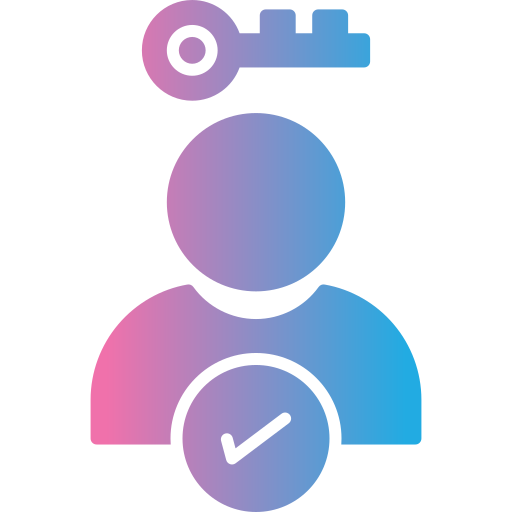
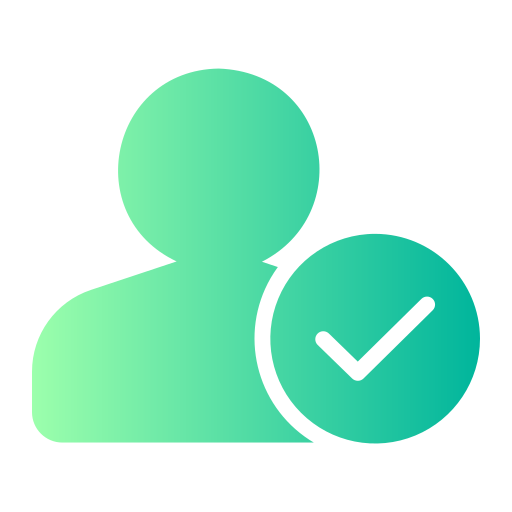
menambahkan sweetAlert pada logout

diff --git a/src/silaris_client/sweetAlert/SweetAlert_Logout.java b/src/silaris_client/sweetAlert/SweetAlert_Logout.java
@@ -1,0 +1,147 @@
+package silaris_client.sweetAlert;
+
+import javax.swing.*;
+import java.awt.*;
+
+public class SweetAlert_Logout extends JDialog {
+
+    private float opacityLevel = 0f;
+    private float iconScale = 0f;
+    private float iconAlpha = 0f;
+
+    public SweetAlert_Logout(Frame parent, Runnable onConfirm) {
+
+        super(parent, false);
+        setUndecorated(true);
+        setSize(360, 230);
+        setLocationRelativeTo(parent);
+        setBackground(new Color(0,0,0,0));
+
+        JPanel panel = new JPanel() {
+            @Override
+            protected void paintComponent(Graphics g) {
+                Graphics2D g2 = (Graphics2D) g;
+                g2.setComposite(
+                        AlphaComposite.getInstance(
+                                AlphaComposite.SRC_OVER, opacityLevel));
+                g2.setColor(Color.WHITE);
+                g2.fillRoundRect(0, 0, getWidth(), getHeight(), 25, 25);
+            }
+        };
+
+        panel.setOpaque(false);
+        panel.setLayout(new BorderLayout());
+        panel.setBorder(BorderFactory.createEmptyBorder(20, 20, 20, 20));
+
+        // ================= ICON =================
+        ImageIcon iconImg = new ImageIcon(
+                getClass().getResource("/silaris_client_assets/Logout.png"));
+        Image image = iconImg.getImage();
+
+        JPanel iconPanel = new JPanel() {
+            @Override
+            protected void paintComponent(Graphics g) {
+                super.paintComponent(g);
+                Graphics2D g2 = (Graphics2D) g;
+
+                g2.setComposite(
+                        AlphaComposite.getInstance(
+                                AlphaComposite.SRC_OVER, iconAlpha));
+
+                int size = (int) (70 * iconScale);
+                int x = (getWidth() - size) / 2;
+                int y = (getHeight() - size) / 2;
+
+                g2.drawImage(image, x, y, size, size, this);
+            }
+        };
+
+        iconPanel.setOpaque(false);
+        iconPanel.setPreferredSize(new Dimension(100, 90));
+
+        // ================= TEXT =================
+        JLabel text = new JLabel(
+                "<html><center>"
+                + "Apakah Anda yakin ingin keluar dari sistem?<br>"
+                + "Semua sesi aktif akan diakhiri."
+                + "</center></html>",
+                SwingConstants.CENTER);
+
+        text.setFont(new Font("Segoe UI", Font.PLAIN, 15));
+
+        // ================= BUTTON =================
+        JButton btnCancel = new JButton("Batal");
+        btnCancel.setFocusPainted(false);
+        btnCancel.setBackground(new Color(149,165,166));
+        btnCancel.setForeground(Color.WHITE);
+        btnCancel.setFont(new Font("Segoe UI", Font.BOLD, 13));
+        btnCancel.setPreferredSize(new Dimension(110, 35));
+        btnCancel.setCursor(new Cursor(Cursor.HAND_CURSOR));
+
+        JButton btnLogout = new JButton("Ya, Logout");
+        btnLogout.setFocusPainted(false);
+        btnLogout.setBackground(new Color(231,76,60));
+        btnLogout.setForeground(Color.WHITE);
+        btnLogout.setFont(new Font("Segoe UI", Font.BOLD, 13));
+        btnLogout.setPreferredSize(new Dimension(110, 35));
+        btnLogout.setCursor(new Cursor(Cursor.HAND_CURSOR));
+
+        btnCancel.addActionListener(e -> dispose());
+
+        btnLogout.addActionListener(e -> {
+            dispose();
+            onConfirm.run();
+        });
+
+        JPanel buttonPanel = new JPanel();
+        buttonPanel.setOpaque(false);
+        buttonPanel.add(btnCancel);
+        buttonPanel.add(Box.createHorizontalStrut(10));
+        buttonPanel.add(btnLogout);
+
+        panel.add(iconPanel, BorderLayout.NORTH);
+        panel.add(text, BorderLayout.CENTER);
+        panel.add(buttonPanel, BorderLayout.SOUTH);
+
+        add(panel);
+
+        startAnimation(iconPanel);
+    }
+
+    private void startAnimation(JPanel iconPanel) {
+
+        Timer timer = new Timer(15, null);
+
+        timer.addActionListener(e -> {
+
+            // FADE IN + ICON BOUNCE
+            opacityLevel += 0.08f;
+            iconAlpha += 0.08f;
+            iconScale += 0.1f;
+
+            if (iconScale > 1.1f)
+                iconScale = 1.05f;
+
+            if (opacityLevel >= 1f)
+                opacityLevel = 1f;
+
+            if (iconAlpha >= 1f)
+                iconAlpha = 1f;
+
+            if (iconScale >= 1f)
+                iconScale = 1f;
+
+            if (opacityLevel == 1f && iconScale == 1f)
+                timer.stop();
+
+            iconPanel.repaint();
+            repaint();
+        });
+
+        timer.start();
+    }
+
+    public static void show(Frame parent, Runnable onConfirm) {
+        new SweetAlert_Logout(parent, onConfirm).setVisible(true);
+    }
+}

diff --git a/src/silaris_client/Main.java b/src/silaris_client/Main.java
@@ -8,6 +8,7 @@ import java.awt.Component;
 import java.awt.Cursor;
 import java.awt.Dimension;
 import java.awt.Font;
+import java.awt.Frame;
 import java.awt.Image;
 import java.awt.event.MouseAdapter;
 import java.awt.event.MouseEvent;
@@ -27,6 +28,7 @@ import javax.swing.JOptionPane;
 import javax.swing.JPanel;
 import javax.swing.JPopupMenu;
 import javax.swing.JSeparator;
+import javax.swing.SwingUtilities;
 import org.json.JSONObject;
 import silaris_client.ReaderConfig.ReaderManager;
 import silaris_client.config.RFIDTestReaderService;
@@ -41,6 +43,7 @@ import silaris_client.panel.PanelSinkronasiData;
 import silaris_client.panel.Panel_LinenKeluar;
 import silaris_client.panel.Panel_LinenMasuk;
 import silaris_client.session.SessionSQLite;
+import silaris_client.sweetAlert.SweetAlert_Logout;
 
 
 /**
@@ -155,16 +158,15 @@ public class Main extends javax.swing.JFrame {
         btnLogout.addMouseListener(new MouseAdapter() {
             @Override
             public void mouseClicked(MouseEvent e) {
-                int jawab = JOptionPane.showConfirmDialog(null,
-                        "Yakin ingin logout?",
-                        "Konfirmasi",
-                        JOptionPane.YES_NO_OPTION);
 
-                if(jawab == JOptionPane.YES_OPTION){
-                    SessionSQLite.clear(); // hapus session
-                    new PanelLogin().setVisible(true); // buka login
-                    dispose();
-                }
+                SweetAlert_Logout.show(
+                        (Frame) SwingUtilities.getWindowAncestor(btnLogout),
+                        () -> {
+                            SessionSQLite.clear();
+                            new PanelLogin().setVisible(true);
+                            dispose();
+                        }
+                );
             }
         });
 
